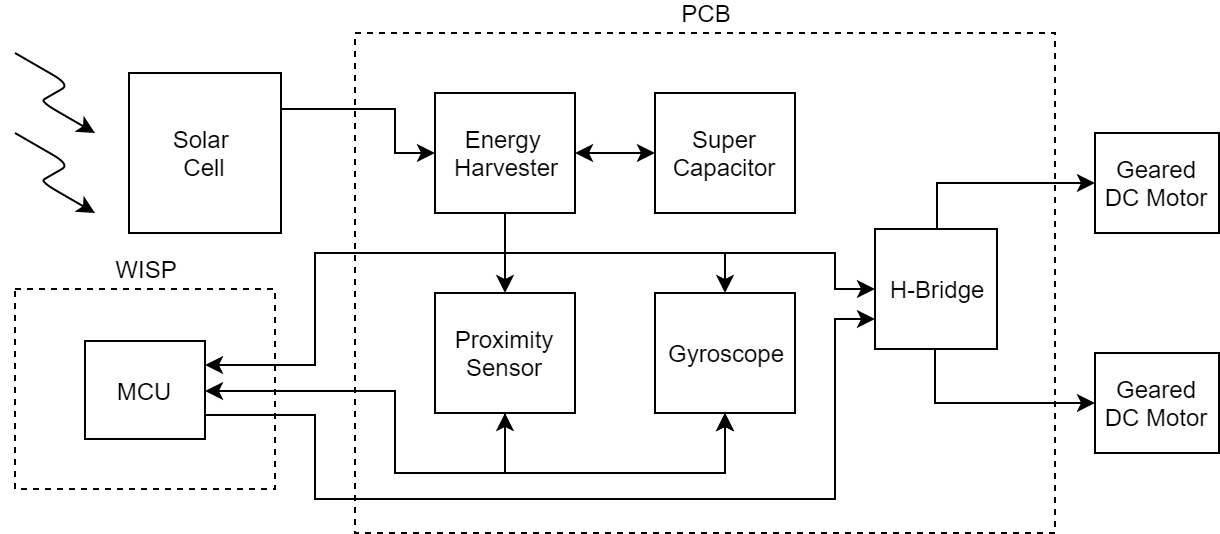
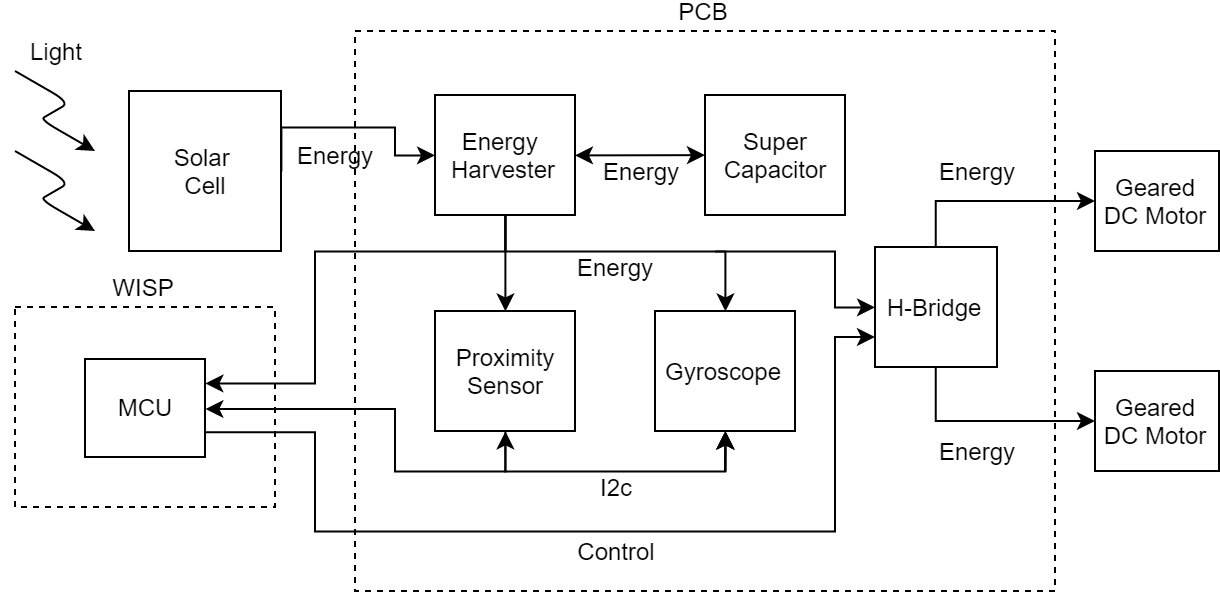
Update the integration section

diff --git a/Latex/Thesis/chapters/robot_design.tex b/Latex/Thesis/chapters/robot_design.tex
@@ -109,7 +109,7 @@ This amount of current can not be supplied by a most regulators, PWM can be used
 \subsection{Energy Harvesting}
 \label{subsec:energy_harvesting}
 
-Solar energy is harvested from two IXYS SLMD121H04L-ND solar cells in series.
+Solar energy is harvested from two IXYS SLMD121H04L-ND solar cells in parallel.
 These monocrystalline solar cells have a high efficiency of 22\%, allowing energy harvesting even in low light conditions.
 The solar cells are connected to a Texas Instruments BQ25570 energy harvester. 
 This harvester includes a nanopower boost charger with maximum power point tracking to extract the optimal amount of energy from the solar panel. 
@@ -120,33 +120,44 @@ Additionally the resistors are used to set the overvoltage protection and the bu
 
 \subsection{Integration}
 
+Now that all the parts have been chosen, they can be connected together to form the robot.
+A Printed Circuit Board (PCB) has been designed to ease connection, increase stability and was required because the ICs come in small no-leads packages.
 A complete overview of the robot can be found in Figure \ref{fig:robot_overview}.
-Most components are part of the Printed Circuit Board (PCB), only the larger components are mounted externally.
+Most components are part of the PCB, only the larger components are mounted externally.
+Most reference designs are extendable but this adds complexity, while weight and size are the main constraints of this robot design.
 
-% Tell why pcb is required.
-% Low power compontents have chip packages which are hard to solder by hand because of their small package size.
-% More stability
-% Tell about the Printed Circuit Board(PCB)
 % Features of the pcb, wisp regulator allows powering from battery for testing
 
-Now that all the parts have been chosen, they can be connected together to form the robot.
-For ease of connection and because the ICs come in small no-leads packages, a PCB has been designed, see Figure \ref{fig:pcb_robot}
-Most reference designs are extendable but this adds complexity, while weight and size are the main constraints of this robot design.
+The top of the PCB contains all the surface mount components that are soldered to the PCB using a reflow oven. 
+When the boards come out of the oven, the headers, motors and supercapacitor are soldered to the boards by hand.
+The PCB contains headers to connect the solar panel, a header to connect all the required pins from the WISP and a additional header to connect a battery for testing purposes.
+A overview of both the top and bottom side of the PCB can be found in Figure \ref{fig:pcb_robot}.
+
 
 
 
 \begin{figure}
 	\centering
 	\includegraphics[width=\textwidth]{pics/schematic_robot_v2.png}
-	\caption{Overview of a single robot}
+	\caption{A schematic overview of a single robot}
 	\label{fig:robot_overview}
 \end{figure}
 
 
 \begin{figure}
 	\centering
-	\includegraphics[width=\textwidth]{pics/schematic_robot_v2.png}
-	\caption{PCB DESIGN}
+	\begin{subfigure}[b]{0.45\textwidth}
+		\includegraphics[width=\textwidth]{pics/pcb_front.jpg}
+		\caption{Top side of the PCB}
+		\label{fig:pcb_robot_front}
+	\end{subfigure}
+	\qquad
+	\begin{subfigure}[b]{0.45\textwidth}
+		\includegraphics[width=\textwidth]{pics/pcb_back.jpg}
+		\caption{Bottom side of the PCB}
+		\label{fig:pcb_robot_back}
+	\end{subfigure}
+	\caption{The PCB designed for the robot to connect everything to the larger components}
 	\label{fig:pcb_robot}
 \end{figure}
 
